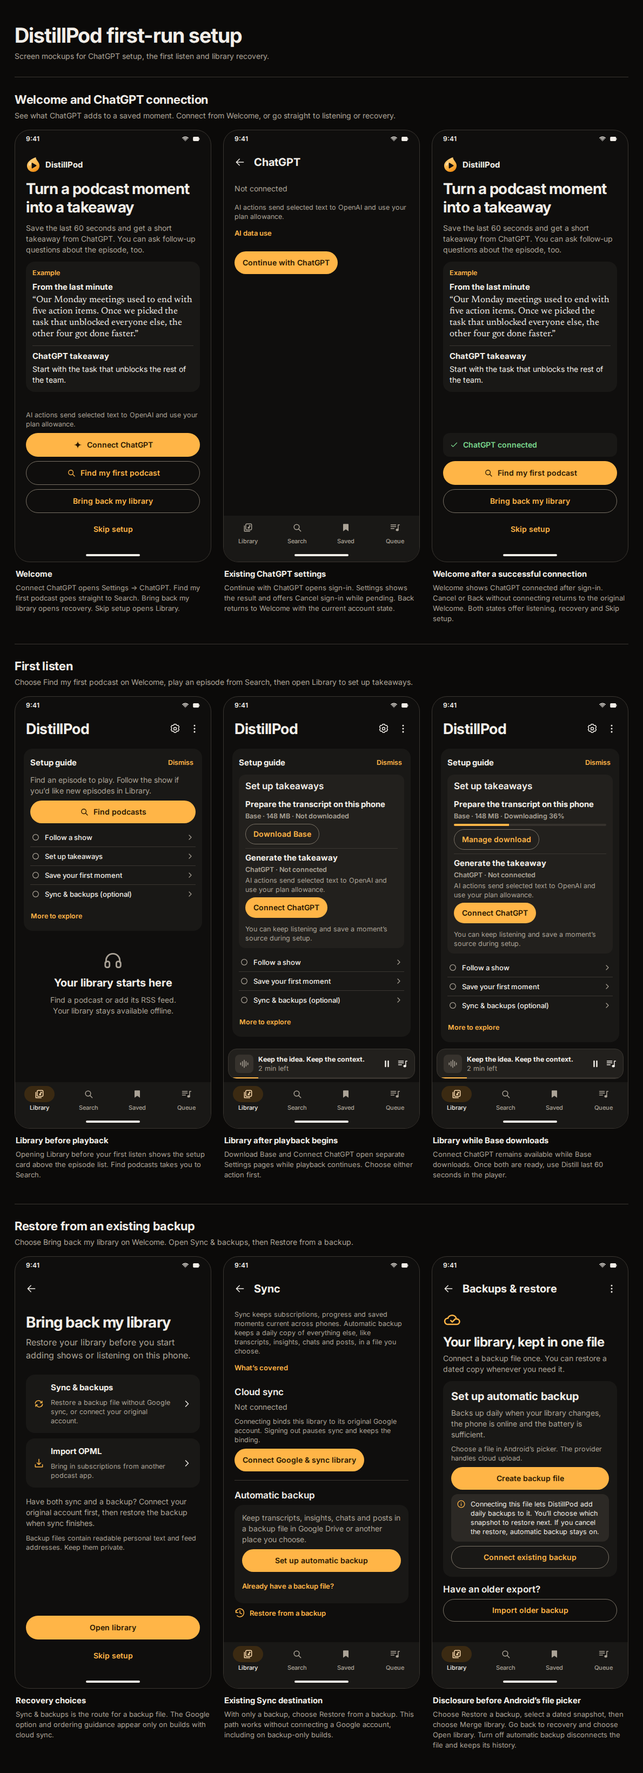
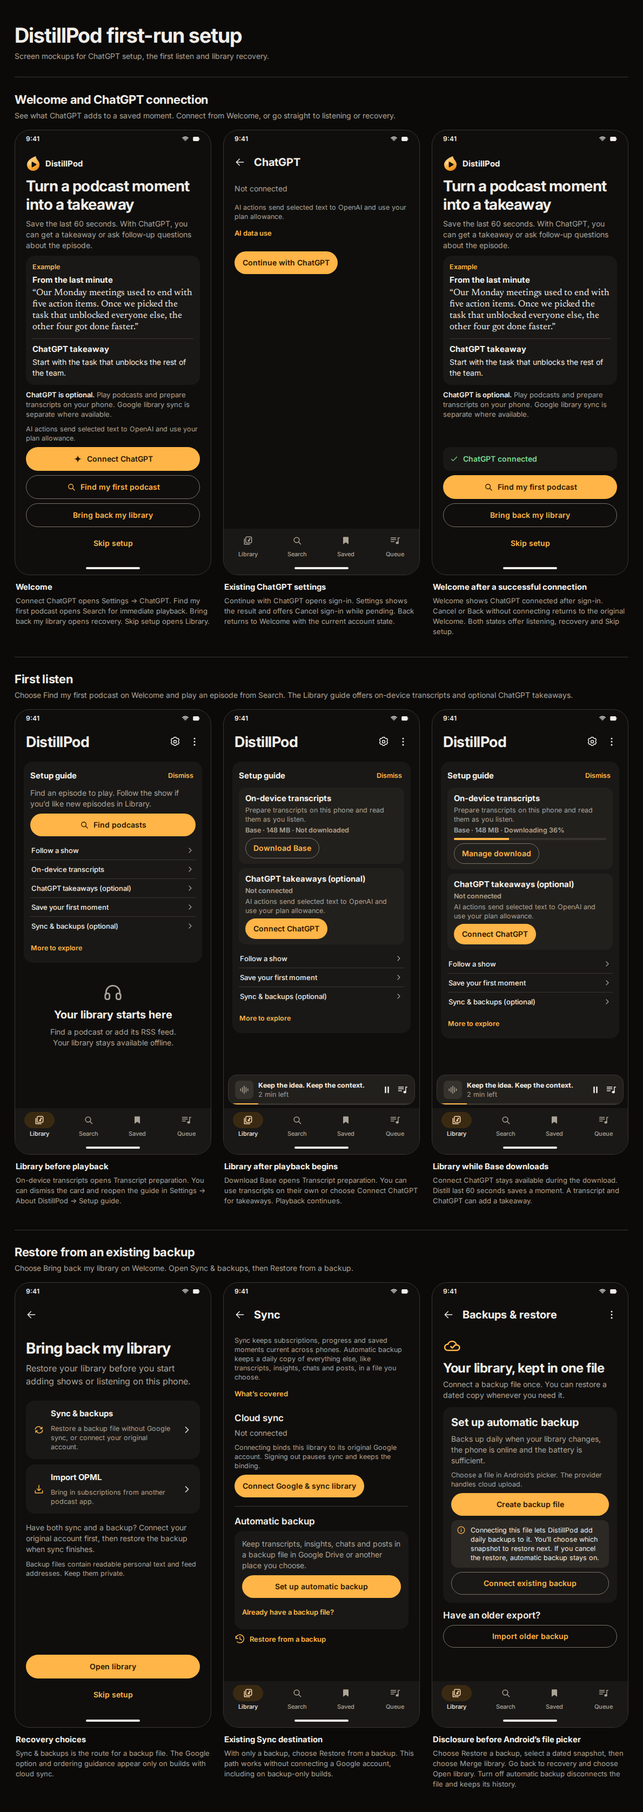
design: make listening, local transcripts and sync independent of ChatGPT

diff --git a/docs/android/evidence/onboarding/mockups.html b/docs/android/evidence/onboarding/mockups.html
@@ -50,7 +50,7 @@
   figcaption h3 { font-size: 15px; line-height: 20px; font-weight: 700; }
   figcaption p { font-size: 13px; line-height: 19px; }
 
-  .phone { display: flex; flex-direction: column; height: 800px; border: 1px solid var(--outline-variant); border-radius: 28px; overflow: hidden; background: var(--ink); }
+  .phone { display: flex; flex-direction: column; height: 824px; border: 1px solid var(--outline-variant); border-radius: 28px; overflow: hidden; background: var(--ink); }
   .statusbar { display: flex; justify-content: space-between; align-items: center; height: 32px; flex: 0 0 32px; padding: 0 20px; font-size: 12px; font-weight: 600; }
   .signals { display: flex; align-items: center; gap: 6px; }
   .signals .icon { width: 14px; height: 14px; }
@@ -78,13 +78,15 @@
   .text-button { display: flex; align-items: center; gap: 8px; min-height: 36px; width: fit-content; color: var(--accent); font-weight: 600; }
   .rule { height: 1px; background: var(--outline-variant); }
 
-  .welcome { padding: 16px 20px 14px; display: flex; flex-direction: column; gap: 12px; }
+  .welcome { padding: 14px 20px 12px; display: flex; flex-direction: column; gap: 9px; }
   .welcome-brand { display: flex; align-items: center; gap: 9px; font-size: 15px; font-weight: 700; }
   .welcome-brand img { width: 27px; height: 31px; }
   .welcome .screen-title { text-wrap: balance; }
   .welcome .lead { font-size: 14px; line-height: 20px; }
+  .optional-account { color: var(--muted); font-size: 13px; line-height: 18px; }
+  .optional-account strong { color: var(--text); font-weight: 600; }
   .example { background: var(--s1); border-radius: 16px; padding: 12px; }
-  .example-label { margin-bottom: 8px; color: var(--accent); font-size: 12.5px; line-height: 17px; font-weight: 600; }
+  .example-label { margin-bottom: 6px; color: var(--accent); font-size: 12.5px; line-height: 17px; font-weight: 600; }
   .example blockquote { margin-top: 4px; font: 400 17px/21px Newsreader, serif; }
   .example-takeaway { margin-top: 10px; border-top: 1px solid var(--outline-variant); padding-top: 9px; }
   .example-takeaway p { margin-top: 4px; }
@@ -116,8 +118,7 @@
   .setup-item { display: flex; align-items: center; min-height: 35px; gap: 9px; padding: 0 2px; font-size: 13px; font-weight: 500; }
   .setup-item + .setup-item { border-top: 1px solid var(--outline-variant); }
   .setup-item .icon { width: 16px; height: 16px; }
-  .setup-item .icon:first-child { color: var(--muted); }
-  .setup-item .icon:last-child { margin-left: auto; color: var(--muted); }
+  .setup-item .icon { margin-left: auto; color: var(--muted); }
   .more { min-height: 31px; margin-left: 1px; font-size: 12.5px; }
 
   .library-empty { display: grid; justify-items: center; gap: 9px; padding: 36px 8px; text-align: center; }
@@ -125,14 +126,10 @@
   .library-empty h4 { font-size: 20px; line-height: 26px; }
   .library-empty p { max-width: 250px; }
   .setup-focus { border-radius: 12px; padding: 10px 12px; background: var(--s2); }
-  .setup-focus > h4 { margin-bottom: 6px; }
-  .setup-focus .step { padding: 7px 0; }
-  .step + .step { border-top: 1px solid var(--outline-variant); }
-  .step p { margin-top: 3px; }
-  .step .button { width: fit-content; min-height: 38px; margin-top: 6px; padding: 5px 14px; }
+  .setup-focus p { margin-top: 3px; }
+  .setup-focus .button { width: fit-content; min-height: 38px; margin-top: 6px; padding: 5px 14px; }
   .step-status { font-weight: 600; }
   .download-progress { height: 4px; margin-top: 6px; border-radius: 4px; background: linear-gradient(90deg, var(--accent) 36%, var(--s4) 36%); }
-  .setup-focus > .small { padding-top: 5px; }
   .mini { flex: 0 0 56px; display: flex; align-items: center; gap: 9px; position: relative; margin: 0 8px 6px; padding: 7px 12px; border: 1px solid var(--outline-variant); border-radius: 16px; overflow: hidden; background: var(--s2); }
   .mini:after { content: ""; position: absolute; inset: auto 0 0; height: 2px; background: linear-gradient(90deg, var(--accent) 16%, var(--s4) 16%); }
   .art { display: grid; place-items: center; width: 34px; height: 34px; flex: 0 0 auto; border-radius: 8px; background: var(--s4); color: var(--muted); }
@@ -188,7 +185,6 @@
   <symbol id="i-pause" viewBox="0 0 24 24"><path d="M9 6v12m6-12v12" stroke-width="3"/></symbol>
   <symbol id="i-wave" viewBox="0 0 24 24"><path d="M4 10v4m4-7v10m4-13v16m4-13v10m4-7v4"/></symbol>
   <symbol id="i-headphones" viewBox="0 0 24 24"><path d="M4 14v-2a8 8 0 0 1 16 0v2"/><rect x="3" y="13" width="5" height="7" rx="2"/><rect x="16" y="13" width="5" height="7" rx="2"/></symbol>
-  <symbol id="i-circle" viewBox="0 0 24 24"><circle cx="12" cy="12" r="8"/></symbol>
   <symbol id="i-check" viewBox="0 0 24 24"><path d="m5 12 4 4 10-10"/></symbol>
   <symbol id="i-spark" viewBox="0 0 24 24"><path d="M12 2c0 6-4 10-10 10 6 0 10 4 10 10 0-6 4-10 10-10-6 0-10-4-10-10Z" fill="currentColor" stroke="none"/></symbol>
   <symbol id="i-sync" viewBox="0 0 24 24"><path d="M4 11a7 7 0 0 1 12-4l3 3m-4 0h4V6m1 7a7 7 0 0 1-12 4l-3-3m4 0H5v4"/></symbol>
@@ -216,7 +212,7 @@
         <div class="phone" data-welcome="disconnected"></div>
         <figcaption>
           <h3>Welcome</h3>
-          <p>Connect ChatGPT opens Settings → ChatGPT. Find my first podcast goes straight to Search. Bring back my library opens recovery. Skip setup opens Library.</p>
+          <p>Connect ChatGPT opens Settings → ChatGPT. Find my first podcast opens Search for immediate playback. Bring back my library opens recovery. Skip setup opens Library.</p>
         </figcaption>
       </figure>
 
@@ -259,7 +255,7 @@
   <section class="path" aria-labelledby="first-listen">
     <header>
       <h2 id="first-listen">First listen</h2>
-      <p>Choose Find my first podcast on Welcome, play an episode from Search, then open Library to set up takeaways.</p>
+      <p>Choose Find my first podcast on Welcome and play an episode from Search. The Library guide offers on-device transcripts and optional ChatGPT takeaways.</p>
     </header>
     <div class="screens">
       <figure>
@@ -277,7 +273,7 @@
               </div>
               <p class="muted">Find an episode to play. Follow the show if you’d like new episodes in Library.</p>
               <div class="button filled"><svg class="icon" aria-hidden="true"><use href="#i-search"/></svg>Find podcasts</div>
-              <div data-checklist="before"></div>
+              <div data-guide-actions="before"></div>
               <div class="text-button more">More to explore</div>
             </div>
             <div class="library-empty">
@@ -291,7 +287,7 @@
         </div>
         <figcaption>
           <h3>Library before playback</h3>
-          <p>Opening Library before your first listen shows the setup card above the episode list. Find podcasts takes you to Search.</p>
+          <p>On-device transcripts opens Transcript preparation. You can dismiss the card and reopen the guide in Settings → About DistillPod → Setup guide.</p>
         </figcaption>
       </figure>
 
@@ -299,7 +295,7 @@
         <div class="phone" data-library-playing="missing"></div>
         <figcaption>
           <h3>Library after playback begins</h3>
-          <p>Download Base and Connect ChatGPT open separate Settings pages while playback continues. Choose either action first.</p>
+          <p>Download Base opens Transcript preparation. You can use transcripts on their own or choose Connect ChatGPT for takeaways. Playback continues.</p>
         </figcaption>
       </figure>
 
@@ -307,7 +303,7 @@
         <div class="phone" data-library-playing="downloading"></div>
         <figcaption>
           <h3>Library while Base downloads</h3>
-          <p>Connect ChatGPT remains available while Base downloads. Once both are ready, use Distill last 60 seconds in the player.</p>
+          <p>Connect ChatGPT stays available during the download. Distill last 60 seconds saves a moment. A transcript and ChatGPT can add a takeaway.</p>
         </figcaption>
       </figure>
     </div>
@@ -453,7 +449,7 @@
       <span>DistillPod</span>
     </div>
     <h4 class="screen-title">Turn a podcast moment into a takeaway</h4>
-    <p class="lead">Save the last 60 seconds and get a short takeaway from ChatGPT. You can ask follow-up questions about the episode, too.</p>
+    <p class="lead">Save the last 60 seconds. With ChatGPT, you can get a takeaway or ask follow-up questions about the episode.</p>
     <div class="example">
       <p class="example-label">Example</p>
       <h4 class="card-title">From the last minute</h4>
@@ -463,6 +459,7 @@
         <p>Start with the task that unblocks the rest of the team.</p>
       </div>
     </div>
+    <p class="optional-account"><strong>ChatGPT is optional.</strong> Play podcasts and prepare transcripts on your phone. Google library sync is separate where available.</p>
     <div class="welcome-actions">
       <p class="small" data-ai-disclosure>AI actions send selected text to OpenAI and use your plan allowance.</p>
       <div class="button filled" data-connect><svg class="icon" aria-hidden="true"><use href="#i-spark"/></svg>Connect ChatGPT</div>
@@ -488,22 +485,19 @@
         <span class="dismiss">Dismiss</span>
       </div>
       <div class="setup-focus">
-        <h4 class="section-title">Set up takeaways</h4>
-        <div class="step">
-          <h4 class="card-title">Prepare the transcript on this phone</h4>
-          <p class="small step-status" data-model-status>Base · 148 MB · Not downloaded</p>
-          <div class="download-progress" role="progressbar" aria-label="Base download" aria-valuenow="36" hidden></div>
-          <div class="button outlined" data-model-action>Download Base</div>
-        </div>
-        <div class="step">
-          <h4 class="card-title">Generate the takeaway</h4>
-          <p class="small step-status">ChatGPT · Not connected</p>
-          <p class="small">AI actions send selected text to OpenAI and use your plan allowance.</p>
-          <div class="button filled">Connect ChatGPT</div>
-        </div>
-        <p class="small">You can keep listening and save a moment’s source during setup.</p>
+        <h4 class="card-title">On-device transcripts</h4>
+        <p class="small">Prepare transcripts on this phone and read them as you listen.</p>
+        <p class="small step-status" data-model-status>Base · 148 MB · Not downloaded</p>
+        <div class="download-progress" role="progressbar" aria-label="Base download" aria-valuenow="36" hidden></div>
+        <div class="button outlined" data-model-action>Download Base</div>
       </div>
-      <div data-checklist="after"></div>
+      <div class="setup-focus">
+        <h4 class="card-title">ChatGPT takeaways (optional)</h4>
+        <p class="small step-status">Not connected</p>
+        <p class="small">AI actions send selected text to OpenAI and use your plan allowance.</p>
+        <div class="button filled">Connect ChatGPT</div>
+      </div>
+      <div data-guide-actions="after"></div>
       <div class="text-button more">More to explore</div>
     </div>
   </div>
@@ -533,7 +527,6 @@
 </template>
 <template id="item">
   <div class="setup-item">
-    <svg class="icon" role="img" aria-label="Incomplete"><use href="#i-circle"/></svg>
     <span></span>
     <svg class="icon" aria-hidden="true"><use href="#i-next"/></svg>
   </div>
@@ -576,13 +569,13 @@
   }
 
   const itemTemplate = document.getElementById("item");
-  for (const checklist of document.querySelectorAll("[data-checklist]")) {
+  for (const guideActions of document.querySelectorAll("[data-guide-actions]")) {
     const items = ["Follow a show", "Save your first moment", "Sync & backups (optional)"];
-    if (checklist.dataset.checklist === "before") items.splice(1, 0, "Set up takeaways");
+    if (guideActions.dataset.guideActions === "before") items.splice(1, 0, "On-device transcripts", "ChatGPT takeaways (optional)");
     for (const label of items) {
       const row = itemTemplate.content.cloneNode(true);
       row.querySelector("span").textContent = label;
-      checklist.append(row);
+      guideActions.append(row);
     }
   }
 </script>

diff --git a/docs/android/onboarding.md b/docs/android/onboarding.md
@@ -20,6 +20,7 @@ These steps are described in [Getting started](../getting-started.md), which a n
 ## Goals
 
 - On the first screen a new listener sees how ChatGPT turns a podcast passage into a takeaway, can connect their account, and knows how to try it on an episode.
+- A listener can use DistillPod solely for playback, add on-device transcription, or sync a library with Google. Each choice works with ChatGPT disconnected, and the listener can change their mind later in Settings.
 - A returning user restores their library before adding anything to the new phone.
 - Each connection is explained once, at the point of choosing it: what it does, what leaves the phone, and what works without it.
 - Every step can be skipped, and anything skipped stays easy to find later.
@@ -37,7 +38,7 @@ These steps are described in [Getting started](../getting-started.md), which a n
 
 **Welcome** introduces DistillPod through a worked example of a ChatGPT takeaway. Its primary action is **Connect ChatGPT**. **Find my first podcast** opens Search immediately. **Bring back my library** opens the recovery choices before the listener adds shows or changes playback progress. **Skip setup** opens Library.
 
-The Library card takes over after either path. Once the listener starts an episode, it offers **Set up takeaways** and shows what the selected transcription model and ChatGPT each contribute.
+The Library card offers optional features after either path. It links directly to local transcript preparation and Sync. Once playback starts, it also shows how to add ChatGPT takeaways. A listener who only wants a podcast player can dismiss the card for good.
 
 ## First-run state
 
@@ -64,7 +65,7 @@ Welcome and Bring back my library both offer **Skip setup**. Back returns from r
 
 ### Welcome
 
-Lead with what happens when a listener hears something worth keeping. Show a short podcast passage beside the takeaway ChatGPT can produce from it. Mark it **Example** and bundle it with the app so it works offline. Mention that listeners can also ask questions about an episode.
+Lead with what happens when a listener hears something worth keeping. Show a short podcast passage beside the takeaway ChatGPT can produce from it. Mark it **Example** and bundle it with the app so it works offline. Mention that listeners can also ask questions about an episode. Alongside the listening action, make clear that anyone can play podcasts and transcribe on the phone without ChatGPT. In a sync-enabled build, mention library sync as another independent choice. Use the backup wording on builds without Google sync.
 
 - **Connect ChatGPT** is the primary action on a fresh install. Put the disclosure beside it: “AI actions send selected text to OpenAI and use your plan allowance.” Open **Settings → ChatGPT** above Welcome and use the existing sign-in controls. On return, read the account state. After success, show **ChatGPT connected** and promote **Find my first podcast**. After cancellation or a failed sign-in, keep both connection and listening available. A model download can wait until the listener has an episode.
 - **Find my first podcast** goes directly to Search. The listener can find an episode and press Play without following a show, signing in or downloading a model.
@@ -90,23 +91,24 @@ The daily job writes when the library has changed, the phone is online and the b
 
 ## The setup card
 
-The first item of the Library list on the main Library page (not on a show page, and only under the **Latest** filter). It is shown while the state is `done`, `cardDismissed` is false, and at least one core item is undone.
+The first item of the Library list on the main Library page (not on a show page, and only under the **Latest** filter). It is shown while the state is `done`, `cardDismissed` is false, and the listener still has a suggested listening action (following a show or saving a first moment). Optional connections and model downloads never keep it on screen.
 
 | Item | Done when | Next action |
 | --- | --- | --- |
 | Follow a show | Any show is followed | Open Search. Following is optional for playback. |
-| Set up takeaways | The **selected** local transcription model is ready and ChatGPT is connected | Show each prerequisite and link directly to its Settings page. |
+| On-device transcripts (optional) | The **selected** local transcription model is ready | Open Settings → Transcript preparation. Available before and after first play, with either account disconnected. |
+| ChatGPT takeaways (optional) | ChatGPT is connected | Open Settings → ChatGPT. Show transcript readiness separately when guiding the first takeaway. |
 | Save your first moment | Any moment has been saved | Open the player for the loaded episode. If none is loaded, open a playable episode’s detail page. If the library has no playable episode, open Search. |
 | Sync & backups (optional) | A Google sync binding exists or an automatic backup file is connected | Open Settings → Sync, including on backup-only builds. |
 
-Before the first play, the card helps the listener find a show or an episode. After playback begins, feature **Set up takeaways** on the next visit to Library. Use active playback or a positive live or saved playback position as evidence of listening. Loading an episode alone keeps the pre-listening card visible. Keep playback running when the listener opens Settings. The Setup guide also exposes these actions on demand.
+Before the first play, the card helps the listener find a show or an episode. After playback begins, show the transcript and ChatGPT actions together on the next visit to Library. A signed-out listener can download the model and read or search a prepared transcript. Use active playback or a positive live or saved playback position as evidence of listening. Loading an episode alone keeps the pre-listening card visible. Keep playback running when the listener opens Settings. The Setup guide also exposes these actions on demand.
 
-Under **Set up takeaways**, show two independent statuses. A listener can connect ChatGPT while the selected model downloads. A listener who connected from Welcome sees that step checked.
+Show two independent statuses. A listener can connect ChatGPT while the selected model downloads. A listener who connected from Welcome sees that step checked.
 
 1. **Prepare the transcript on this phone.** Show the selected model’s name, size and download status. Open **Settings → Transcript preparation** for download, progress or pause. With Tiny installed and Base selected but missing, show **Download Base**. Network policy and the contextual notification prompt still apply.
 2. **Generate the takeaway.** Open **Settings → ChatGPT**, with its existing sign-in, cancel and retry controls. Explain before connection that AI actions send selected text to OpenAI and use the listener’s plan allowance. The listener can already play audio and save a moment’s source while setup is incomplete. Once ready, point them to **Distill last 60 seconds** in the player.
 
-Derive readiness from the current selection, model files and account state each time the card is shown, including after a restore or selection change. Hide the card while the core items are complete. Set the dismissal flag only when the listener chooses **Dismiss**. Optional Sync & backups never keeps it visible. Its checkmark indicates a connection. The Sync page shows backup failures and its reconnect action.
+Derive readiness from the current selection, model files and account state each time the card is shown, including after a restore or selection change. Hide the card once the listener has followed a show and saved a moment, regardless of account or model state. Offer **Dismiss** at any time, including before either action. Present available features without an overall completion score or a warning for staying signed out. Set the dismissal flag only when the listener chooses **Dismiss**. Optional Sync & backups never keeps it visible. Its checkmark indicates a connection. The Sync page shows backup failures and its reconnect action.
 
 - A **More to explore** link opens a sheet pointing to headphone capture, the home-screen widget, Android Auto and, when the build enables it, Voice.
 - **Settings → About DistillPod → Setup guide** shows the same list at any time, for every installation.
@@ -141,10 +143,11 @@ Risk is concentrated in two places: the first-run decision, where a wrong answer
 
 ## Mockup approval
 
-Review the [screen mockups](evidence/onboarding/mockups.png) or open the [HTML walkthrough](evidence/onboarding/mockups.html) locally. Walk through both tasks before approving the screens.
+Review the [screen mockups](evidence/onboarding/mockups.png) or open the [HTML walkthrough](evidence/onboarding/mockups.html) locally. Walk through these tasks before approving the screens.
 
 1. From the example on Welcome, can a listener explain what ChatGPT adds, find **Connect ChatGPT**, and understand what gets sent? Walk through connecting first and listening first. Both should lead to a playable episode and a clear next step toward a real takeaway.
-2. Starting with only a backup file, can a returning listener recover their library without signing in to Google and explain, before choosing the file, when DistillPod can write to it and what canceling restore does?
+2. From Welcome, can a listener go straight to playback and dismiss setup? Can they find local transcripts or Google library sync independently, and see which account each action requires?
+3. Starting with only a backup file, can a returning listener recover their library without signing in to Google and explain, before choosing the file, when DistillPod can write to it and what canceling restore does?
 
 ## Validation
 
@@ -153,7 +156,8 @@ The Sync change was exercised on a Galaxy S22 with a backup file in Downloads. B
 - **Unit:** the decision table, including update installs and each single non-empty input; card visibility and prerequisite states, including Tiny ready with Base selected but missing, and Base becoming ready after download. Cover each destination for **Save your first moment**.
 - **Device, isolated emulator:** a new `OnboardingDeviceTest` covering both paths, Skip from every screen, Back, process recreation on each screen, 160% and 200% font scale, TalkBack headings, the card's appearance and disappearance, and an update over a seeded database showing neither flow nor card. Include an upgrade with a remembered backup destination and verify that the destination and its schedule are preserved.
 - **ChatGPT on the isolated emulator:** verify the example renders offline without making an AI request. Open ChatGPT Settings from Welcome, exercise connected and canceled states with an account fixture, then return. Check the primary action, that recovery remains reachable, and that the card reflects the same account state while a model download is pending.
-- **First listen on the isolated emulator:** go from Welcome to Search, play a fixture episode, open Library, and follow **Set up takeaways** to each Settings page. Check that playback continues. With nothing loaded, check that **Save your first moment** reaches a playable episode or Search in an empty library.
+- **First listen on the isolated emulator:** go from Welcome to Search, play a fixture episode, open Library, and follow the transcript and ChatGPT links to their respective Settings pages. Check that playback continues. With nothing loaded, check that **Save your first moment** reaches a playable episode or Search in an empty library.
+- **Without ChatGPT on the isolated emulator:** keep ChatGPT disconnected throughout. Play a fixture episode without a downloaded model, dismiss the card, relaunch and resume listening. Via Settings or the guide, prepare and read a local transcript. With the configured demo Google account, verify a subscription and listening position sync independently. Assert none of these paths opens ChatGPT sign-in or sends a generation request.
 - **Sync and backup on the isolated emulator:** exercise the returning path with a configured test backend and a backup-only build. Seed a fixture provider with a managed archive containing one identifiable snapshot and use a different library on the test phone. Check the disclosure before the picker. Connect the archive, cancel the restore preview, and verify that the phone’s library was not merged. Let the first scheduled backup run with its constraints satisfied. Reopen the file, verify that a new snapshot was written and the original snapshot is still present, then restore the original without Google sign-in and return to Library. Verify that opening or skipping setup alone never creates a backup connection. Check that a connected file satisfies the optional card item without a Google account.
 - **Existing suites** must pass unchanged, which is the evidence that the test-runner default works.
 - **Manual, with task authorization:** live ChatGPT sign-in from Welcome or the card and Google sign-in via recovery on an emulator. These are live account requests and are not run without the owner's approval.
@@ -167,10 +171,10 @@ Update [Getting started](../getting-started.md) so the first session follows the
 
 | Task and owner | Deliverable | Acceptance |
 | --- | --- | --- |
-| 1. Screen mockups · design agent | Welcome, recovery, pre-picker disclosure and the Library card before and after first playback, using the existing Android theme. | Review the two [approval walkthroughs](#mockup-approval) before implementing the screens. |
+| 1. Screen mockups · design agent | Welcome, recovery, pre-picker disclosure and the Library card before and after first playback, using the existing Android theme. | Review the [approval walkthroughs](#mockup-approval) before implementing the screens. |
 | 2. First-run decision · startup agent | Write failing decision-table tests. Read actual install, library, account and backup state before choosing the initial route. Persist the decision and dismissal atomically on the device. Default isolated tests to an existing install and let onboarding tests opt in. | A clean install reaches Welcome. Updating an empty or populated existing install reaches Library without a card. Backup and sync never transport these flags. |
 | 3. Startup and navigation · startup agent | Preserve the saved back stack and incoming intents while the decision loads. Wire fresh, recovery, skip, finish and Back transitions. | ChatGPT Settings returns to pending Welcome. Search opens directly from Welcome. A deep link retains its destination above pending setup. Rotation, task recreation and a second launch preserve the specified behavior. |
-| 4. Guided actions and Library card · UI agent | Build the offline ChatGPT example and connection action on Welcome, recovery and the contextual card. Derive action readiness from current playback, selected model, ChatGPT, follows and moments. Reuse Settings, the OPML picker and existing episode destinations. | Tiny installed with Base selected still offers Base. A first-moment tap always reaches the loaded player, a playable episode or Search. Dismissal and completion behave as specified. |
+| 4. Guided actions and Library card · UI agent | Build the offline ChatGPT example and connection action on Welcome, recovery and the contextual card. Derive action readiness from current playback, selected model, ChatGPT, follows and moments. Reuse Settings, the OPML picker and existing episode destinations. | Tiny installed with Base selected still offers Base. A first-moment tap always reaches the loaded player, a playable episode or Search. Playback, local transcripts and sync remain usable with ChatGPT disconnected. Dismissing the card persists across launches. |
 | 5. Backup disclosure and recovery · coordinator | Place the recurring-write disclosure before the picker. Exercise backup-only recovery with a seeded archive and distinct local library. | After canceling preview, the library remains intact. The first scheduled write preserves the original snapshot, which can still be selected and restored. |
 | 6. Integration, documentation and validation · coordinator | Connect the card under Latest and the guide under About, review the combined routing and accessibility, update user docs, and run the validation above against the integrated revision. | Record red/green tests, isolated emulator results, in-place physical upgrade evidence and limitations. Reconcile current main and verify required PR and combined-commit CI before completion. |
 
